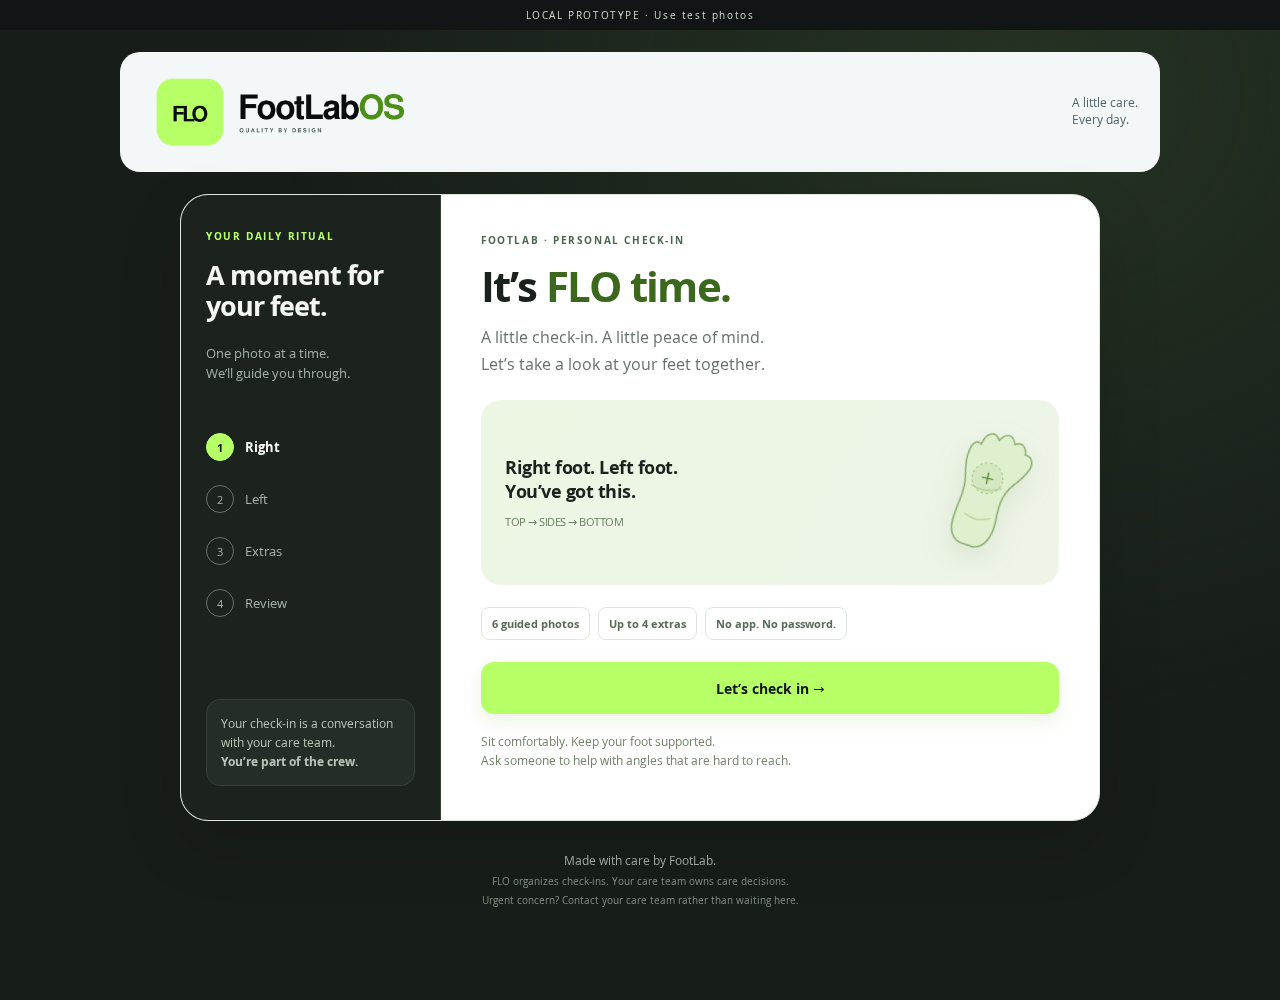
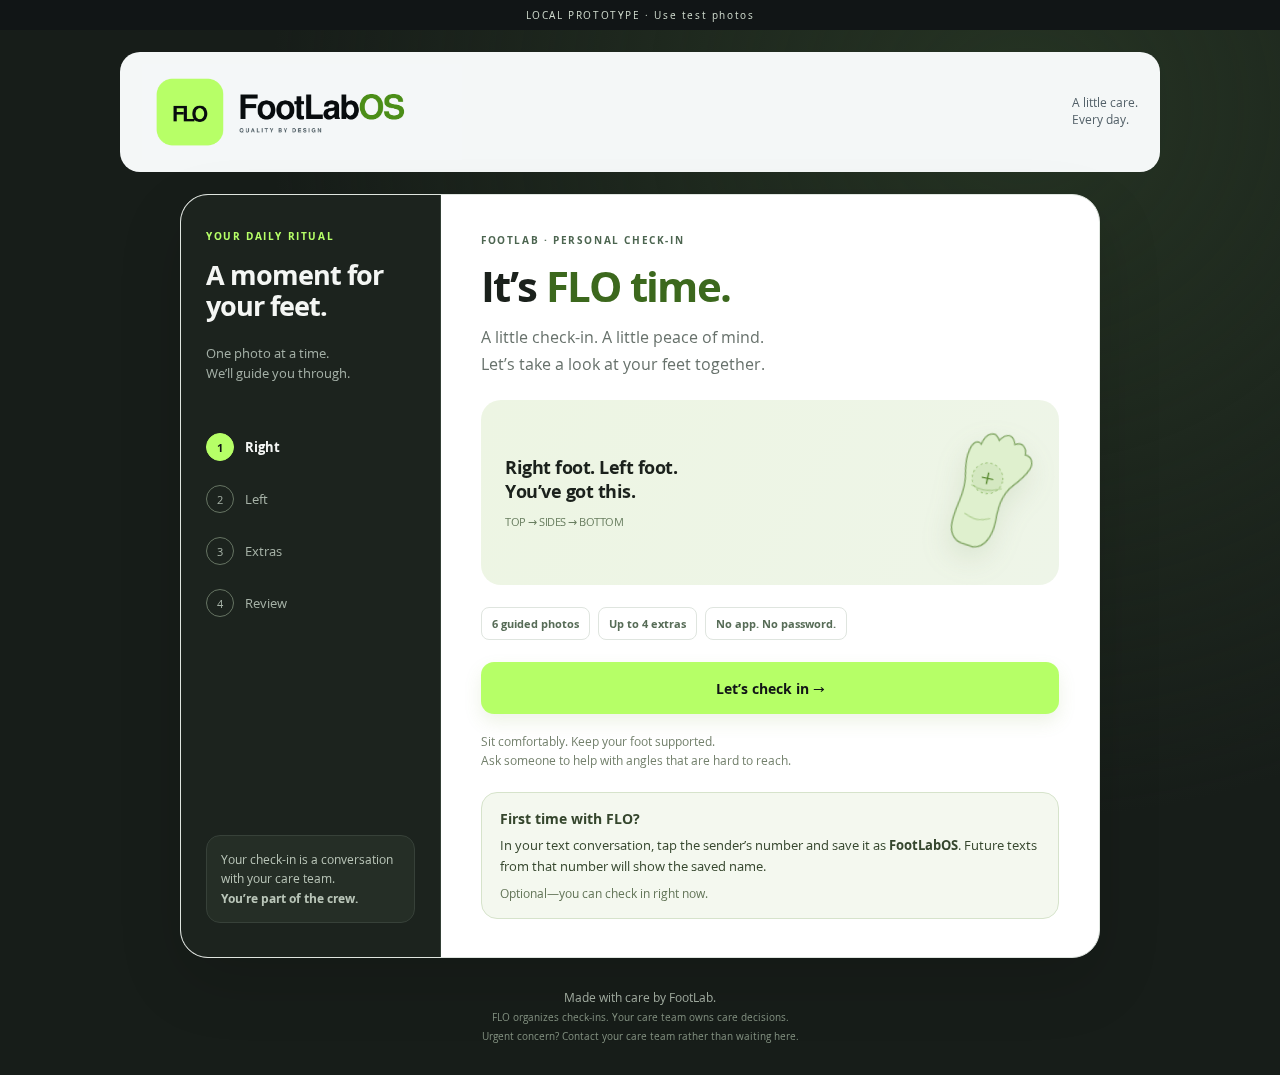
Add optional save-FootLabOS-contact note to FLO welcome

diff --git a/docs/preview/flo-public-demo.html b/docs/preview/flo-public-demo.html
@@ -1,6 +1,6 @@
 <!doctype html>
 <html lang="en">
-  <head><meta http-equiv="Content-Security-Policy" content="default-src 'none'; script-src 'sha256-YWFh66kjc1v5y8BjJ4QUSYmRP0nsk+LsW/c4uL1d52k='; style-src 'unsafe-inline'; img-src data:; connect-src 'none'; form-action 'none'; base-uri 'none'">
+  <head><meta http-equiv="Content-Security-Policy" content="default-src 'none'; script-src 'sha256-29mS3eYQYltVctkSF75jIKv7njTupADruoNN+zgx4vY='; style-src 'unsafe-inline'; img-src data:; connect-src 'none'; form-action 'none'; base-uri 'none'">
     <meta charset="utf-8" />
     <meta name="viewport" content="width=device-width,initial-scale=1" />
     <meta name="theme-color" content="#111516" />
@@ -696,6 +696,11 @@ h1 em {
   .brand-image { width: 230px; }
   .masthead .brand-caption { font-size: 10px; }
 }
+
+.contact-tip { margin-top: 22px; padding: 16px 18px; border: 1px solid #d6e3cb; border-radius: 16px; background: #f4f8ef; color: #35462d; }
+.contact-tip strong { display: block; font-size: 14px; }
+.contact-tip p { margin: 7px 0 9px; font-size: 13px; line-height: 1.55; }
+.contact-tip small { display: block; font-size: 12px; color: #627457; }
 </style>
   </head>
   <body>
@@ -894,7 +899,7 @@ function render() {
     return;
   }
   frame(
-    `<div class="eyebrow">FootLab · Personal check-in</div><h1>It’s <em>FLO time.</em></h1><p class="intro">A little check-in. A little peace of mind.<br>Let’s take a look at your feet together.</p><div class="welcome-art"><p>Right foot. Left foot.<br>You’ve got this.<small>TOP → SIDES → BOTTOM</small></p>${footArt()}</div><div class="chips"><span class="chip">6 guided photos</span><span class="chip">Up to 4 extras</span><span class="chip">No app. No password.</span></div><button id="start" class="primary">${state.busy ? "Getting ready…" : state.photos.size ? "Continue my check-in →" : "Let’s check in →"}</button><p class="note">Sit comfortably. Keep your foot supported.<br>Ask someone to help with angles that are hard to reach.</p>`,
+    `<div class="eyebrow">FootLab · Personal check-in</div><h1>It’s <em>FLO time.</em></h1><p class="intro">A little check-in. A little peace of mind.<br>Let’s take a look at your feet together.</p><div class="welcome-art"><p>Right foot. Left foot.<br>You’ve got this.<small>TOP → SIDES → BOTTOM</small></p>${footArt()}</div><div class="chips"><span class="chip">6 guided photos</span><span class="chip">Up to 4 extras</span><span class="chip">No app. No password.</span></div><button id="start" class="primary">${state.busy ? "Getting ready…" : state.photos.size ? "Continue my check-in →" : "Let’s check in →"}</button><p class="note">Sit comfortably. Keep your foot supported.<br>Ask someone to help with angles that are hard to reach.</p><aside class="contact-tip" aria-label="Recognize future FLO texts"><strong>First time with FLO?</strong><p>In your text conversation, tap the sender’s number and save it as <b>FootLabOS</b>. Future texts from that number will show the saved name.</p><small>Optional—you can check in right now.</small></aside>`,
   );
   document.querySelector("#start").disabled = state.busy;
   document.querySelector("#start").onclick = async () => {

diff --git a/docs/preview/flo-time.html b/docs/preview/flo-time.html
@@ -697,6 +697,11 @@ h1 em {
   .masthead .brand-caption { font-size: 10px; }
 }
 
+.contact-tip { margin-top: 22px; padding: 16px 18px; border: 1px solid #d6e3cb; border-radius: 16px; background: #f4f8ef; color: #35462d; }
+.contact-tip strong { display: block; font-size: 14px; }
+.contact-tip p { margin: 7px 0 9px; font-size: 13px; line-height: 1.55; }
+.contact-tip small { display: block; font-size: 12px; color: #627457; }
+
 .preview-menu{display:flex;gap:8px;align-items:center;justify-content:center;flex-wrap:wrap;background:#dff0ce;padding:12px;font-size:11px}.preview-menu button{border:1px solid #bdd3a7;background:white;border-radius:8px;padding:8px;color:#355823;font-size:11px}</style>
   </head>
   <body>
@@ -905,7 +910,7 @@ function render() {
     return;
   }
   frame(
-    `<div class="eyebrow">FootLab · Personal check-in</div><h1>It’s <em>FLO time.</em></h1><p class="intro">A little check-in. A little peace of mind.<br>Let’s take a look at your feet together.</p><div class="welcome-art"><p>Right foot. Left foot.<br>You’ve got this.<small>TOP → SIDES → BOTTOM</small></p>${footArt()}</div><div class="chips"><span class="chip">6 guided photos</span><span class="chip">Up to 4 extras</span><span class="chip">No app. No password.</span></div><button id="start" class="primary">${state.busy ? "Getting ready…" : state.photos.size ? "Continue my check-in →" : "Let’s check in →"}</button><p class="note">Sit comfortably. Keep your foot supported.<br>Ask someone to help with angles that are hard to reach.</p>`,
+    `<div class="eyebrow">FootLab · Personal check-in</div><h1>It’s <em>FLO time.</em></h1><p class="intro">A little check-in. A little peace of mind.<br>Let’s take a look at your feet together.</p><div class="welcome-art"><p>Right foot. Left foot.<br>You’ve got this.<small>TOP → SIDES → BOTTOM</small></p>${footArt()}</div><div class="chips"><span class="chip">6 guided photos</span><span class="chip">Up to 4 extras</span><span class="chip">No app. No password.</span></div><button id="start" class="primary">${state.busy ? "Getting ready…" : state.photos.size ? "Continue my check-in →" : "Let’s check in →"}</button><p class="note">Sit comfortably. Keep your foot supported.<br>Ask someone to help with angles that are hard to reach.</p><aside class="contact-tip" aria-label="Recognize future FLO texts"><strong>First time with FLO?</strong><p>In your text conversation, tap the sender’s number and save it as <b>FootLabOS</b>. Future texts from that number will show the saved name.</p><small>Optional—you can check in right now.</small></aside>`,
   );
   document.querySelector("#start").disabled = state.busy;
   document.querySelector("#start").onclick = async () => {

diff --git a/apps/client-link/app.js b/apps/client-link/app.js
@@ -94,7 +94,7 @@ function render() {
     return;
   }
   frame(
-    `<div class="eyebrow">FootLab · Personal check-in</div><h1>It’s <em>FLO time.</em></h1><p class="intro">A little check-in. A little peace of mind.<br>Let’s take a look at your feet together.</p><div class="welcome-art"><p>Right foot. Left foot.<br>You’ve got this.<small>TOP → SIDES → BOTTOM</small></p>${footArt()}</div><div class="chips"><span class="chip">6 guided photos</span><span class="chip">Up to 4 extras</span><span class="chip">No app. No password.</span></div><button id="start" class="primary">${state.busy ? "Getting ready…" : state.photos.size ? "Continue my check-in →" : "Let’s check in →"}</button><p class="note">Sit comfortably. Keep your foot supported.<br>Ask someone to help with angles that are hard to reach.</p>`,
+    `<div class="eyebrow">FootLab · Personal check-in</div><h1>It’s <em>FLO time.</em></h1><p class="intro">A little check-in. A little peace of mind.<br>Let’s take a look at your feet together.</p><div class="welcome-art"><p>Right foot. Left foot.<br>You’ve got this.<small>TOP → SIDES → BOTTOM</small></p>${footArt()}</div><div class="chips"><span class="chip">6 guided photos</span><span class="chip">Up to 4 extras</span><span class="chip">No app. No password.</span></div><button id="start" class="primary">${state.busy ? "Getting ready…" : state.photos.size ? "Continue my check-in →" : "Let’s check in →"}</button><p class="note">Sit comfortably. Keep your foot supported.<br>Ask someone to help with angles that are hard to reach.</p><aside class="contact-tip" aria-label="Recognize future FLO texts"><strong>First time with FLO?</strong><p>In your text conversation, tap the sender’s number and save it as <b>FootLabOS</b>. Future texts from that number will show the saved name.</p><small>Optional—you can check in right now.</small></aside>`,
   );
   document.querySelector("#start").disabled = state.busy;
   document.querySelector("#start").onclick = async () => {

diff --git a/apps/client-link/styles.css b/apps/client-link/styles.css
@@ -683,3 +683,8 @@ h1 em {
   .brand-image { width: 230px; }
   .masthead .brand-caption { font-size: 10px; }
 }
+
+.contact-tip { margin-top: 22px; padding: 16px 18px; border: 1px solid #d6e3cb; border-radius: 16px; background: #f4f8ef; color: #35462d; }
+.contact-tip strong { display: block; font-size: 14px; }
+.contact-tip p { margin: 7px 0 9px; font-size: 13px; line-height: 1.55; }
+.contact-tip small { display: block; font-size: 12px; color: #627457; }
